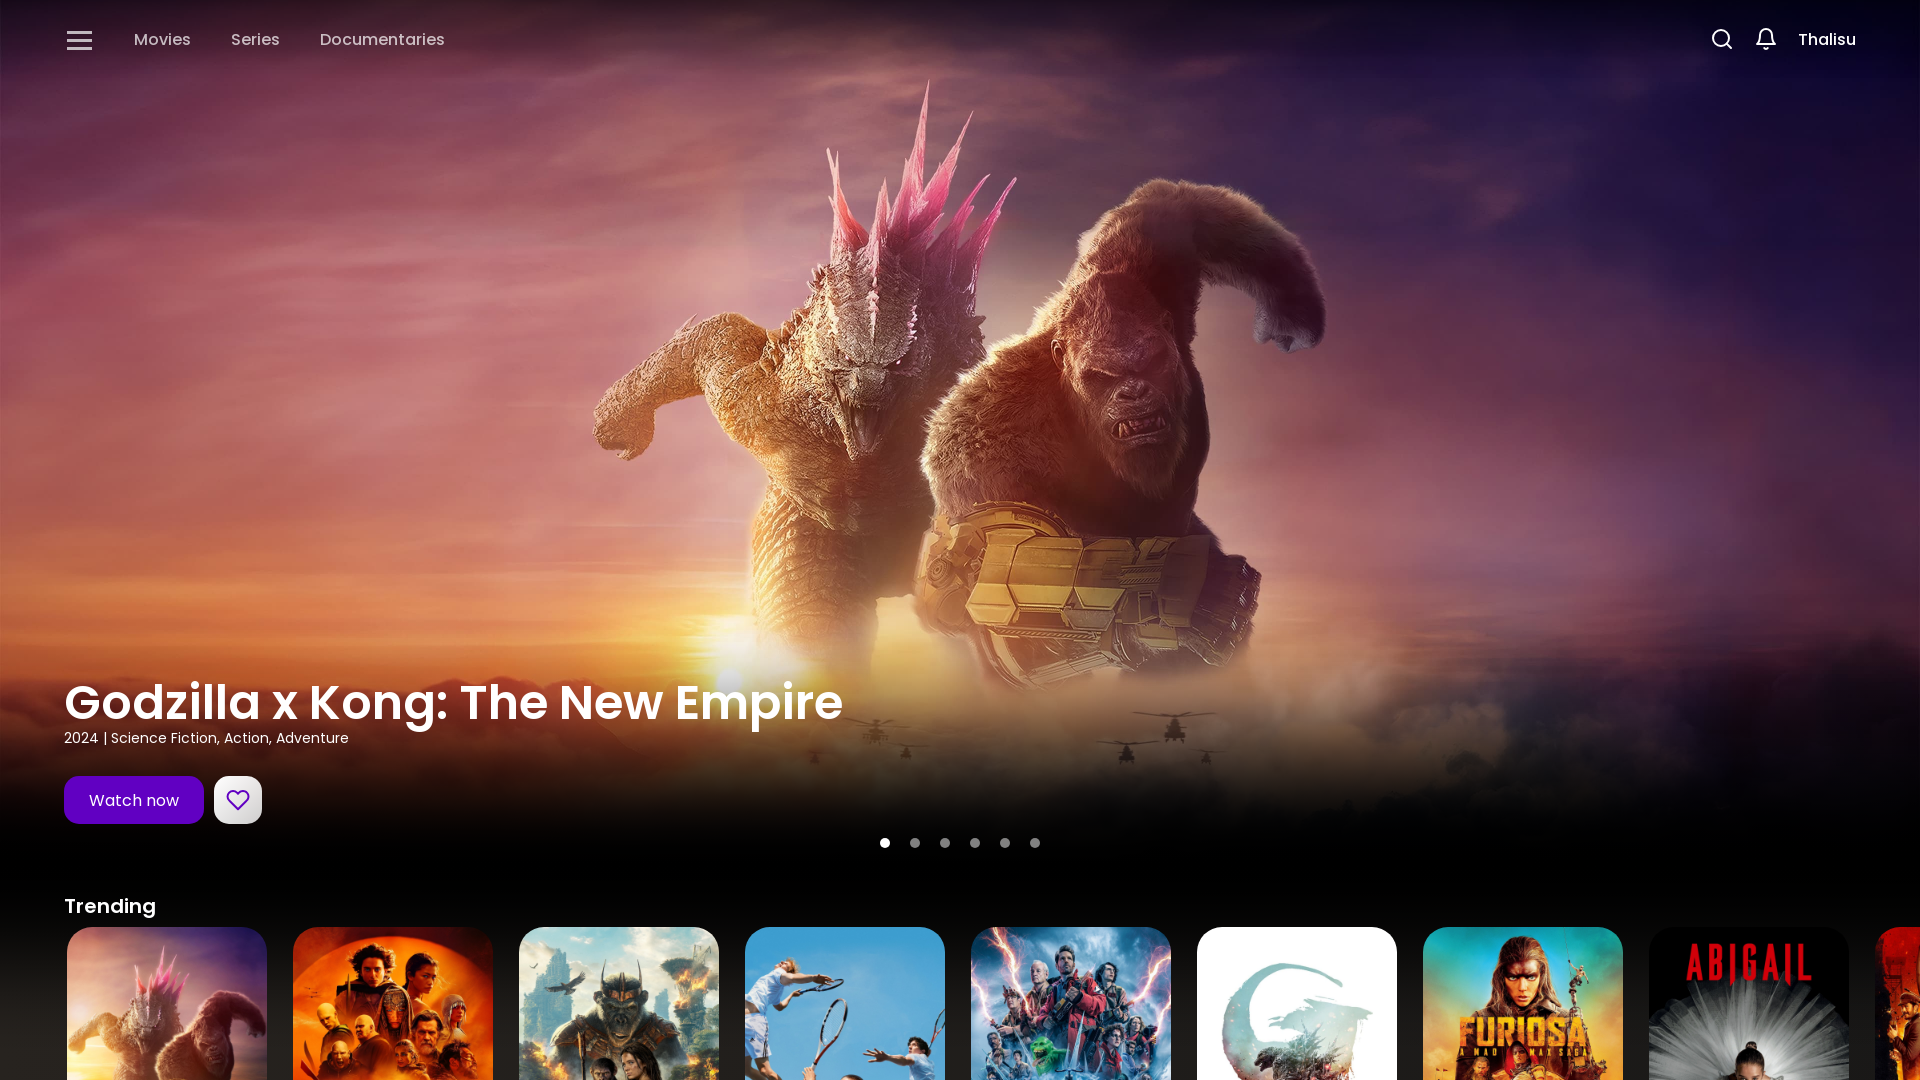
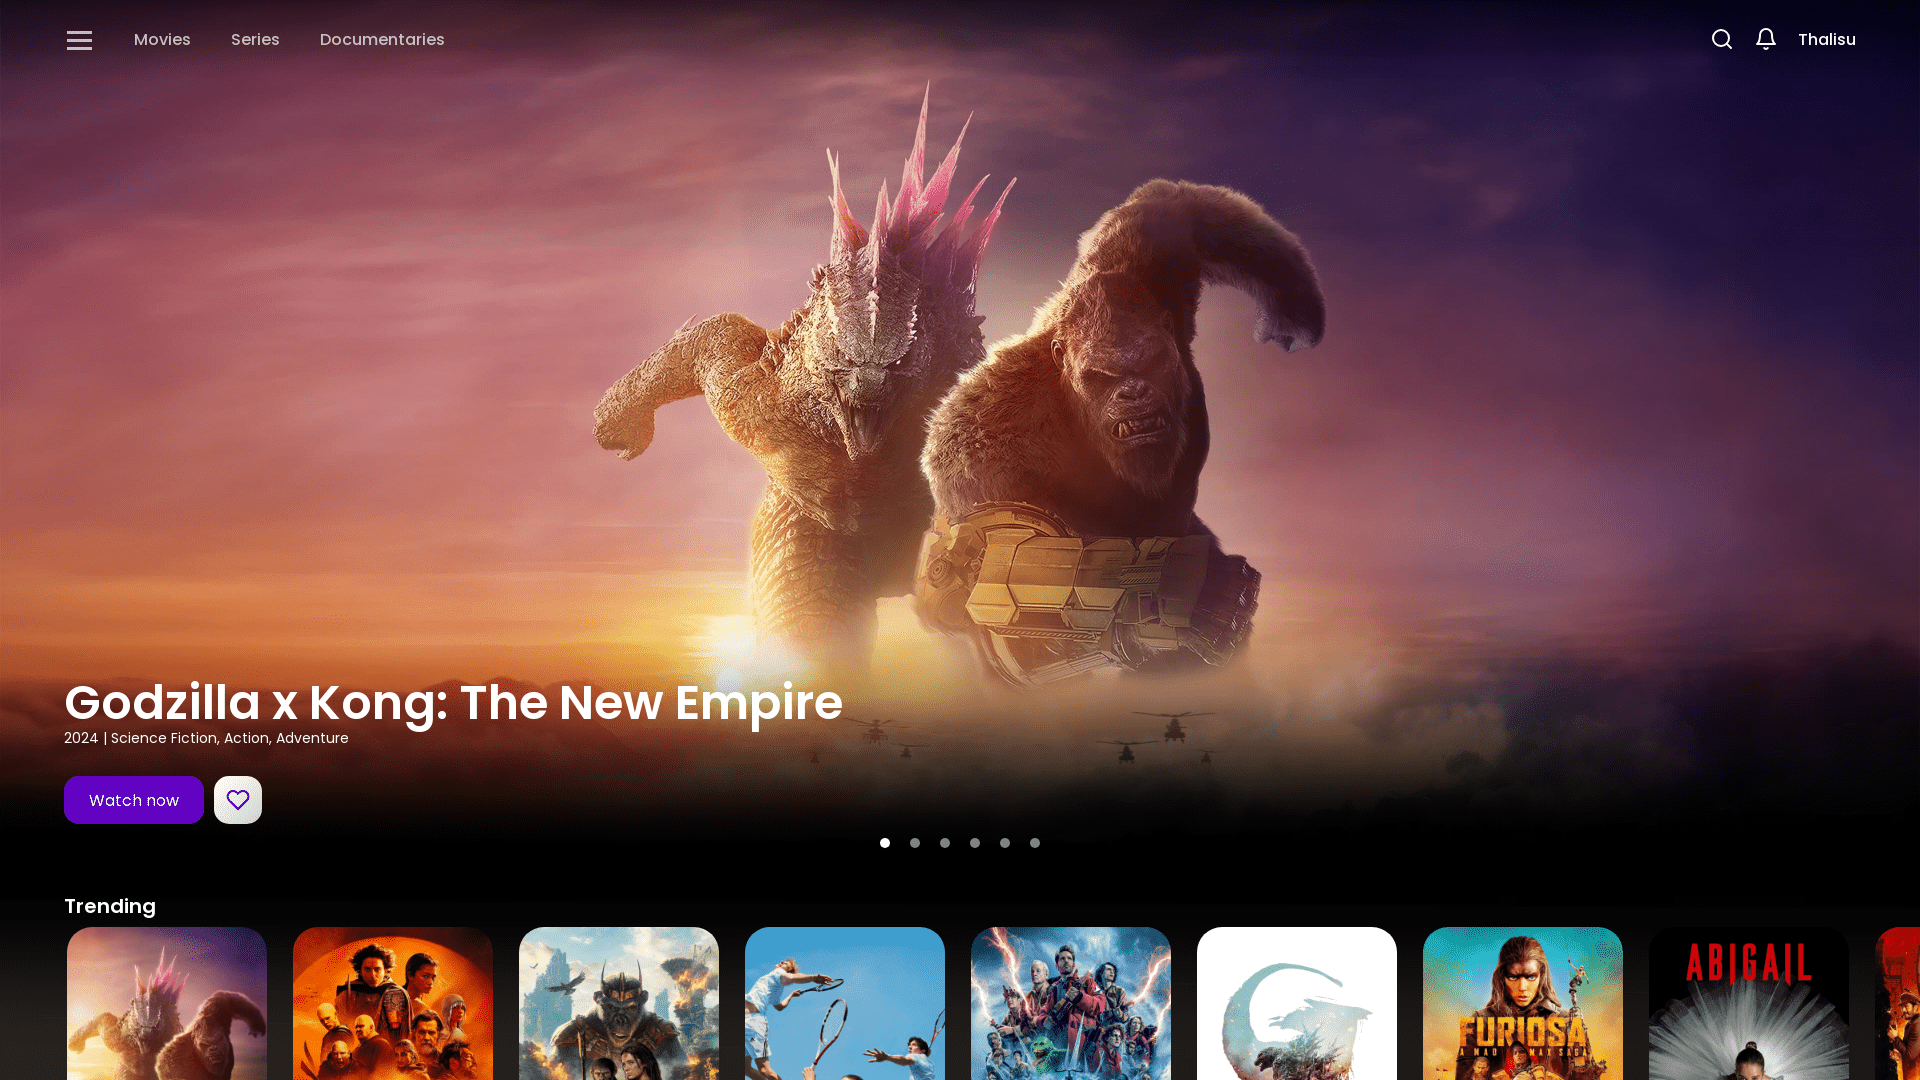
refactor: remove unnecessary code and compress img

diff --git a/app/ui/home/heroSection/headers/BottomText.tsx b/app/ui/home/heroSection/headers/BottomText.tsx
@@ -14,23 +14,17 @@ export default function BottomText() {
       >
         developer
       </h2>
-      <ClickableContainer>
-        <a
-          href="https://github.com/Thalisu"
-          className="svg translate-y-7 cursor-none"
-          target="_blank"
-        >
-          <GithubLogo className="w-5 text-primary" />
-        </a>
+      <ClickableContainer
+        href="https://github.com/Thalisu"
+        className="svg translate-y-7 cursor-none"
+      >
+        <GithubLogo className="w-5 text-primary" />
       </ClickableContainer>
-      <ClickableContainer>
-        <a
-          href="https://www.linkedin.com/in/thalison-de-melo-correa-744958276/"
-          className="svg translate-y-7 cursor-none"
-          target="_blank"
-        >
-          <LinkedinLogo className="w-5 text-primary" />
-        </a>
+      <ClickableContainer
+        href="https://www.linkedin.com/in/thalison-de-melo-correa-744958276/"
+        className="svg translate-y-7 cursor-none"
+      >
+        <LinkedinLogo className="w-5 text-primary" />
       </ClickableContainer>
     </div>
   );

diff --git a/app/animations/aboutMyWork/SkillSection.ts b/app/animations/aboutMyWork/SkillSection.ts
@@ -2,7 +2,6 @@ import gsap from "gsap";
 import { ScrollTrigger } from "gsap/ScrollTrigger";
 import { useGSAP } from "@gsap/react";
 import { useRef } from "react";
-import { getSplitText } from "@/app/lib/utils";
 
 const useSkillSectionAnimation = (z: number) => {
   const ref = useRef<HTMLDivElement | null>(null);

diff --git a/app/ui/home/aboutMyWork/index.tsx b/app/ui/home/aboutMyWork/index.tsx
@@ -1,6 +1,6 @@
 import Objective from "./Objective";
 import SkillSection from "@/app/components/SkillSection";
-import skills from "./skills";
+import skills from "../../../lib/skills";
 import RelativeToSelfContainer from "@/app/components/RelativeToSelfContainer";
 
 export default function AboutMyWork() {

diff --git a/app/ui/home/heroSection/headers/MiddleText.tsx b/app/ui/home/heroSection/headers/MiddleText.tsx
@@ -1,5 +1,4 @@
 import { poppins } from "@/app/ui/fonts";
-import { forwardRef } from "react";
 
 export default function MiddleText() {
   return (

diff --git a/app/ui/home/heroSection/headers/TopText.tsx b/app/ui/home/heroSection/headers/TopText.tsx
@@ -1,4 +1,3 @@
-import { forwardRef } from "react";
 import { poppins } from "../../../fonts";
 
 export default function TopText() {
